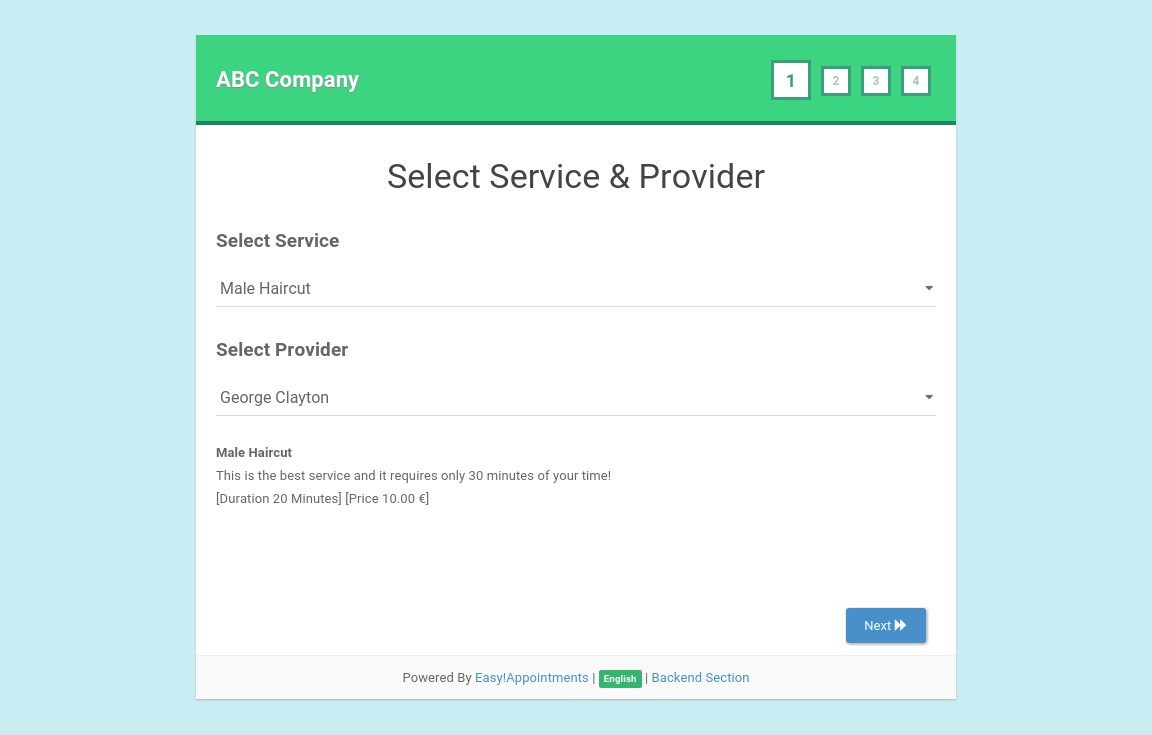
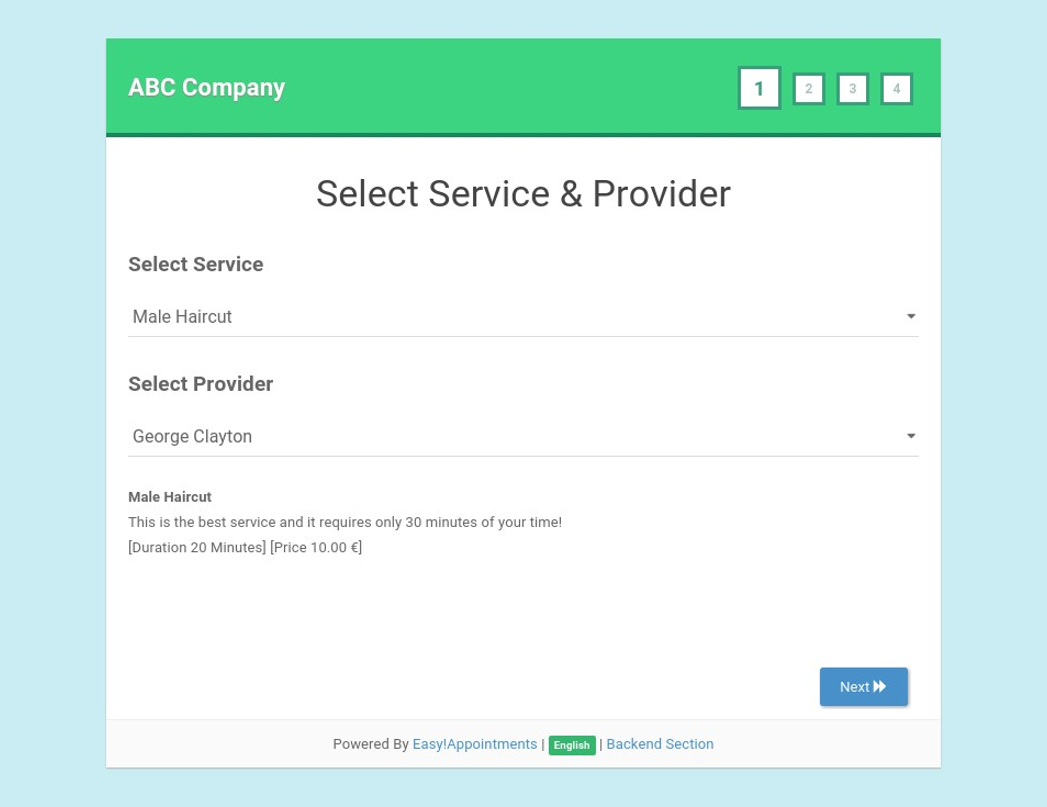
Made adjustments to the screenshot size.

diff --git a/index.html b/index.html
@@ -285,7 +285,7 @@
                     Easy!Appointments supports localization and many users have contributed to the project
                     with their translations! The user interface is currently translated into English, German,
                     Greek, Portuguese, Spanish, Dutch, Japanese, French, Chinese, Polish, Italian, Luxembourgish,
-                    Danish, Hungarian, Slovak, Russian, Italian, Finnish, Romanian, Turkish and Hindi! You can
+                    Danish, Hungarian, Slovak, Russian, Finnish, Romanian, Turkish and Hindi! You can
                     add your own language or use one of the existing
                     <a href="https://github.com/alextselegidis/easyappointments/wiki/Manage-Translations" target="_blank">available on this page</a>.
                 </p>

diff --git a/style.css b/style.css
@@ -348,7 +348,7 @@ ol {
 
 .screenshots img {
     width: 448px;
-    height: 310px;
+    height: auto;
     margin-right: 20px;
 }
 
